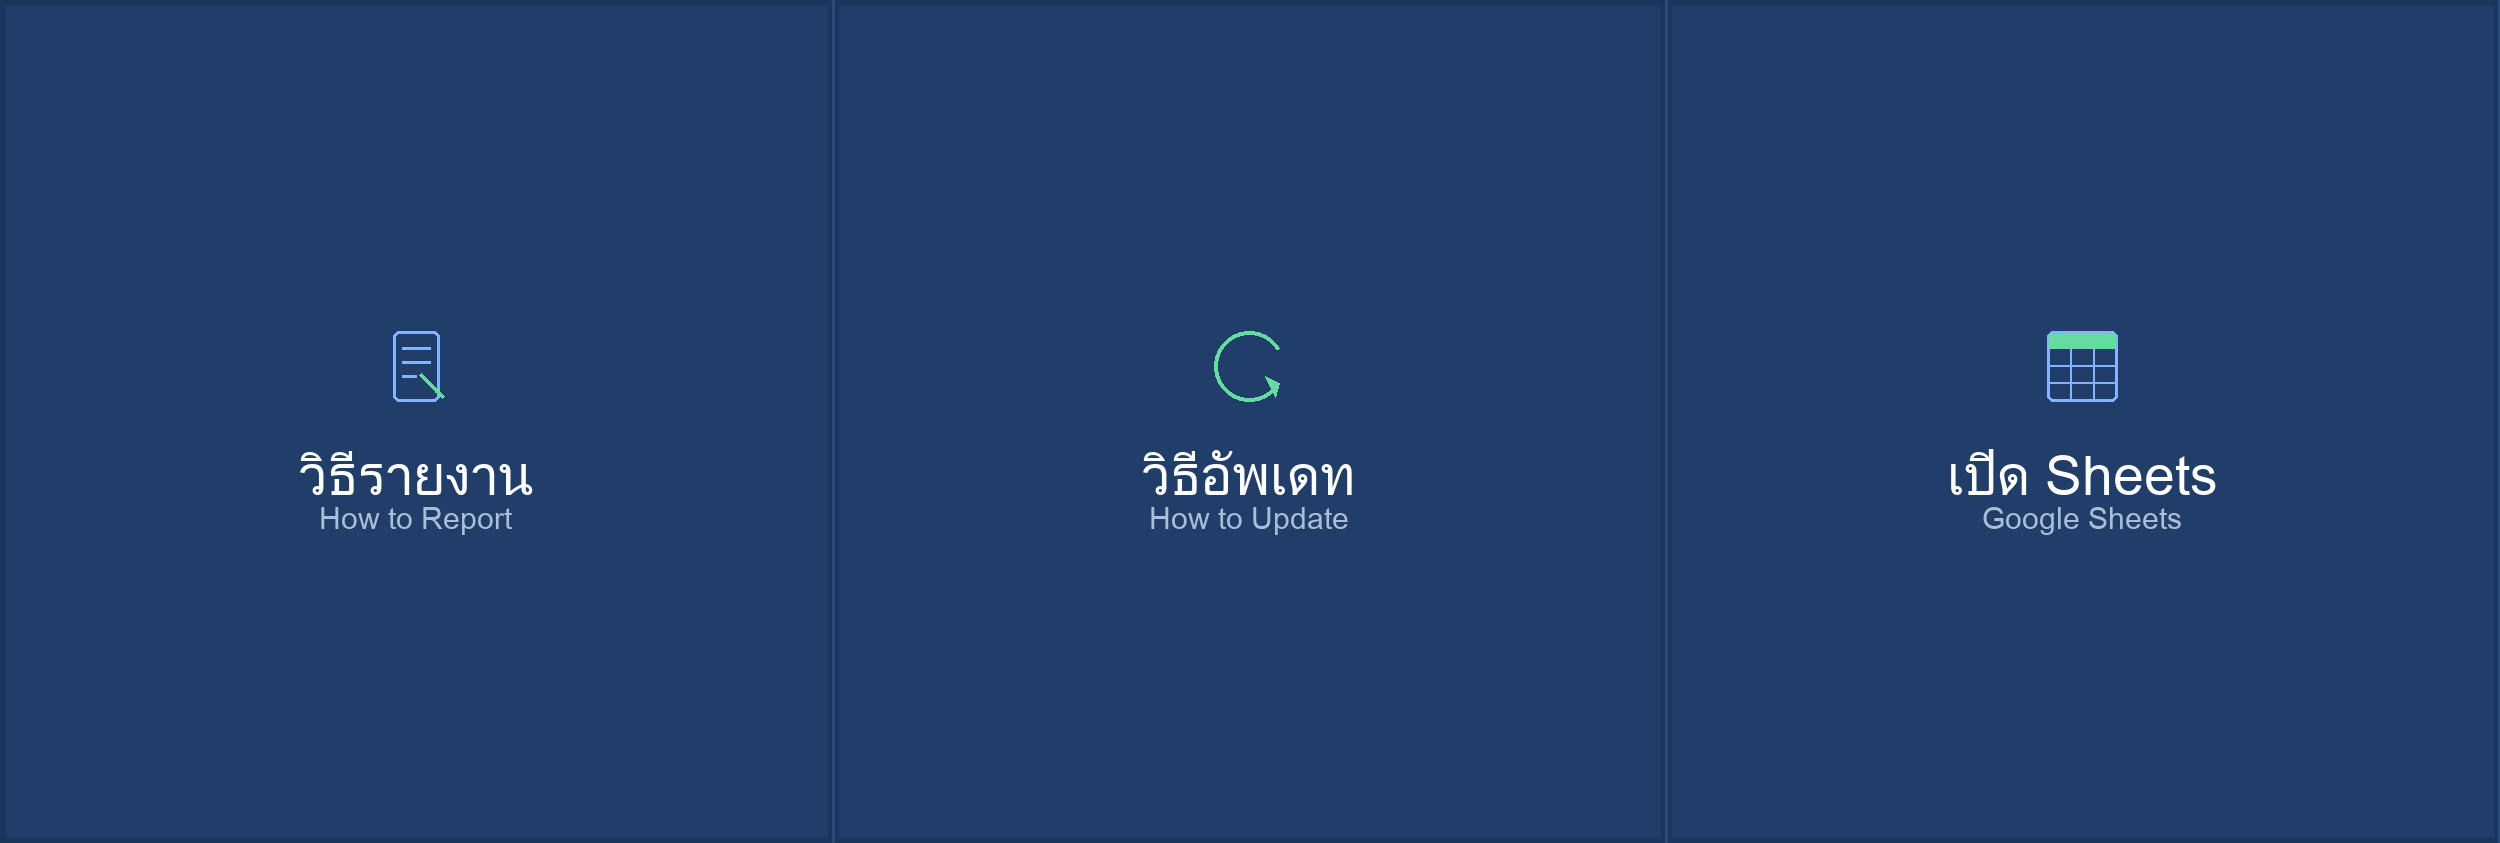
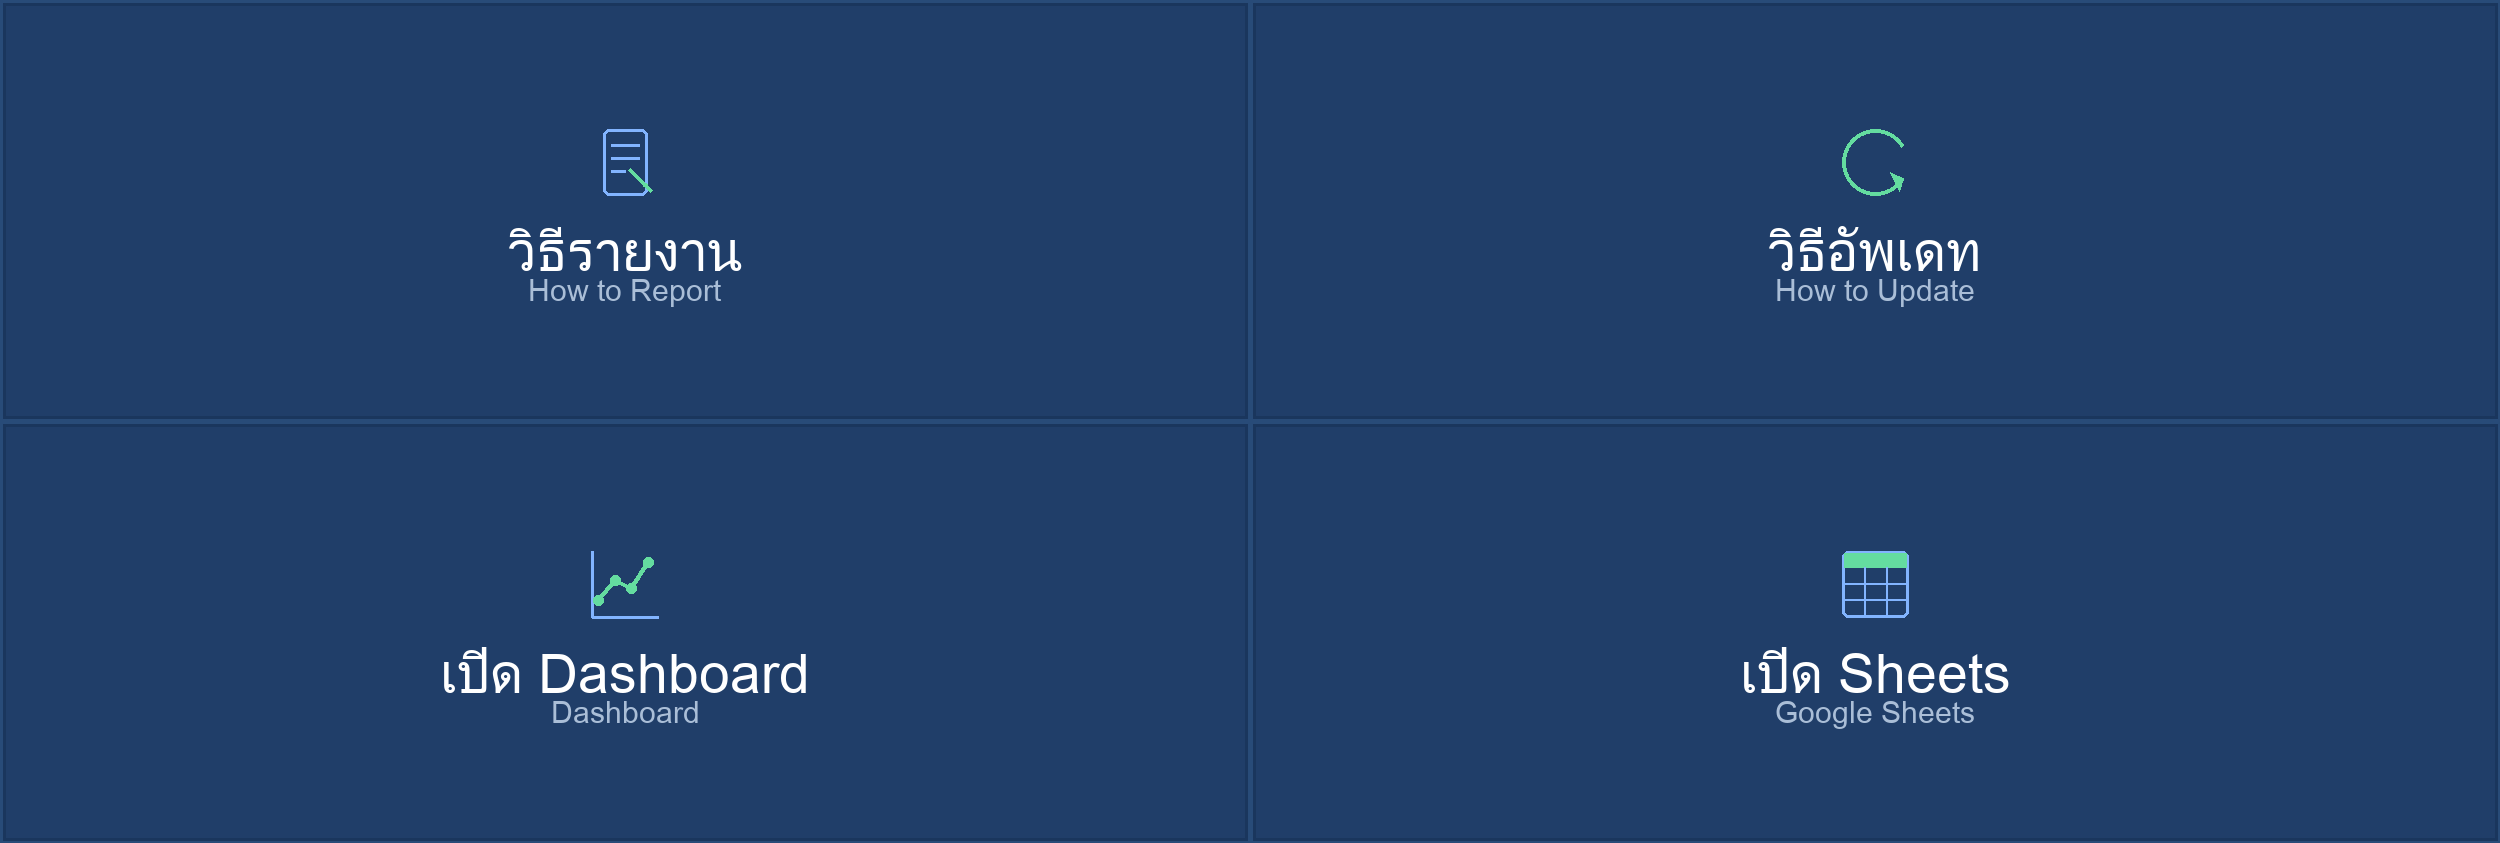
feat: align cron and rich menu production setup

diff --git a/demo/setup_rich_menu.py b/demo/setup_rich_menu.py
@@ -7,7 +7,8 @@ Run once after deployment:
 Requires:
   - LINE_CHANNEL_ACCESS_TOKEN in .env or environment
   - rich_menu.png in same directory
-  - Google Sheets URL
+  - Dashboard URL
+  - Google Sheets URL or GOOGLE_SHEETS_ID
 """
 
 import os
@@ -18,24 +19,52 @@ import urllib.request
 # Config
 # ---------------------------------------------------------------------------
 
-TOKEN = os.environ.get("LINE_CHANNEL_ACCESS_TOKEN", "")
 
-# URLs — update these with your actual URLs
-SHEETS_URL = os.environ.get("SHEETS_URL", "https://docs.google.com/spreadsheets/d/1N8urzMgcVBjJ3iv5ACPtMP-pG70rtlaHQ6v3iTJ48wY/edit")
+def load_env_file():
+    """Load a dotenv-style file into os.environ without overwriting existing vars."""
+    env_path = os.environ.get("ENV_FILE")
+    if not env_path:
+        env_path = os.path.join(os.path.dirname(__file__), ".env")
+
+    if not os.path.exists(env_path):
+        return
+
+    with open(env_path) as f:
+        for line in f:
+            line = line.strip()
+            if not line or line.startswith("#") or "=" not in line:
+                continue
+            key, value = line.split("=", 1)
+            key = key.strip()
+            value = value.strip().strip('"').strip("'")
+            os.environ.setdefault(key, value)
+
+
+load_env_file()
+
+TOKEN = os.environ.get("LINE_CHANNEL_ACCESS_TOKEN", "")
+DASHBOARD_URL = os.environ.get(
+    "DASHBOARD_URL",
+    "https://lookerstudio.google.com/reporting/9a4b326f-4f51-4f85-be2f-2bf8e958a9ec",
+)
+GOOGLE_SHEETS_ID = os.environ.get("GOOGLE_SHEETS_ID", "")
+SHEETS_URL = os.environ.get("SHEETS_URL", "")
 
 if not TOKEN:
-    # Try loading from .env file
-    env_path = os.path.join(os.path.dirname(__file__), ".env")
-    if os.path.exists(env_path):
-        with open(env_path) as f:
-            for line in f:
-                line = line.strip()
-                if line.startswith("LINE_CHANNEL_ACCESS_TOKEN="):
-                    TOKEN = line.split("=", 1)[1].strip().strip('"').strip("'")
-    if not TOKEN:
-        print("ERROR: LINE_CHANNEL_ACCESS_TOKEN not found.")
-        print("Set it as environment variable or in .env file.")
-        exit(1)
+    print("ERROR: LINE_CHANNEL_ACCESS_TOKEN not found.")
+    print("Set it as environment variable, ENV_FILE, or in .env file.")
+    exit(1)
+
+if not SHEETS_URL and GOOGLE_SHEETS_ID:
+    SHEETS_URL = f"https://docs.google.com/spreadsheets/d/{GOOGLE_SHEETS_ID}/edit"
+
+if not SHEETS_URL:
+    print("ERROR: SHEETS_URL or GOOGLE_SHEETS_ID is required.")
+    exit(1)
+
+if not DASHBOARD_URL:
+    print("ERROR: DASHBOARD_URL is required.")
+    exit(1)
 
 
 def api_call(method, path, data=None, content_type="application/json"):
@@ -92,10 +121,10 @@ def delete_existing_menus():
 
 
 def create_rich_menu():
-    """Create the rich menu with 3 buttons in a single row."""
+    """Create the rich menu with 4 buttons in a 2x2 layout."""
 
-    # 2500x843 image, 3 equal columns
-    cell_w = 2500 // 3     # 833
+    cell_w = 2500 // 2
+    cell_h = 843 // 2
 
     menu_data = {
         "size": {"width": 2500, "height": 843},
@@ -103,19 +132,20 @@ def create_rich_menu():
         "name": "ATE Sales Bot Menu",
         "chatBarText": "เมนู ATE Sales",
         "areas": [
-            # Left: วิธีรายงาน
             {
-                "bounds": {"x": 0, "y": 0, "width": cell_w, "height": 843},
+                "bounds": {"x": 0, "y": 0, "width": cell_w, "height": cell_h},
                 "action": {"type": "message", "text": "วิธีรายงาน"}
             },
-            # Center: วิธีอัพเดท
             {
-                "bounds": {"x": cell_w, "y": 0, "width": cell_w, "height": 843},
+                "bounds": {"x": cell_w, "y": 0, "width": cell_w, "height": cell_h},
                 "action": {"type": "message", "text": "วิธีอัพเดท"}
             },
-            # Right: เปิด Sheets → URL
             {
-                "bounds": {"x": cell_w * 2, "y": 0, "width": cell_w, "height": 843},
+                "bounds": {"x": 0, "y": cell_h, "width": cell_w, "height": 843 - cell_h},
+                "action": {"type": "uri", "uri": DASHBOARD_URL}
+            },
+            {
+                "bounds": {"x": cell_w, "y": cell_h, "width": cell_w, "height": 843 - cell_h},
                 "action": {"type": "uri", "uri": SHEETS_URL}
             },
         ]

diff --git a/demo/generate_rich_menu_image.py b/demo/generate_rich_menu_image.py
@@ -1,6 +1,5 @@
 """
-Generate LINE Rich Menu image (2500x843) for ATE Sales Report Bot.
-3 buttons in a single row.
+Generate a 4-button LINE Rich Menu image (2500x843) for ATE Sales Report Bot.
 
 Usage:
   python3 generate_rich_menu_image.py
@@ -21,15 +20,18 @@ TEXT_COLOR = (255, 255, 255)
 ICON_COLOR = (130, 180, 255)       # Light blue for icons
 ICON_ACCENT = (100, 220, 160)      # Green accent
 
-# Layout: single row, 3 equal cells
-NUM_COLS = 3
-CELL_W = WIDTH // NUM_COLS          # 833
+# Layout: main menu uses a 2x2 grid
+NUM_COLS = 2
+NUM_ROWS = 2
+CELL_W = WIDTH // NUM_COLS
+CELL_H = HEIGHT // NUM_ROWS
 
 # Button definitions
 BUTTONS = [
-    {"thai": "วิธีรายงาน",    "eng": "How to Report",   "col": 0},
-    {"thai": "วิธีอัพเดท",    "eng": "How to Update",   "col": 1},
-    {"thai": "เปิด Sheets",    "eng": "Google Sheets",  "col": 2},
+    {"thai": "วิธีรายงาน", "eng": "How to Report", "col": 0, "row": 0},
+    {"thai": "วิธีอัพเดท", "eng": "How to Update", "col": 1, "row": 0},
+    {"thai": "เปิด Dashboard", "eng": "Dashboard", "col": 0, "row": 1},
+    {"thai": "เปิด Sheets", "eng": "Google Sheets", "col": 1, "row": 1},
 ]
 
 # Find Thai font
@@ -171,48 +173,48 @@ def draw_grid_icon(draw, cx, cy, size=70):
         draw.line([(x0, ry), (x1, ry)], fill=ICON_COLOR, width=2)
 
 
-ICON_DRAWERS = [draw_document_icon, draw_refresh_icon, draw_grid_icon]
+ICON_DRAWERS = [draw_document_icon, draw_refresh_icon, draw_line_chart_icon, draw_grid_icon]
 
 
 # ---------------------------------------------------------------------------
 # Build image
 # ---------------------------------------------------------------------------
 
-img = Image.new("RGB", (WIDTH, HEIGHT), BG_COLOR)
-draw = ImageDraw.Draw(img)
+def draw_menu(buttons, drawers, output_name):
+    img = Image.new("RGB", (WIDTH, HEIGHT), BG_COLOR)
+    draw = ImageDraw.Draw(img)
 
-for idx, btn in enumerate(BUTTONS):
-    x0 = btn["col"] * CELL_W
-    y0 = 0
-    x1 = x0 + CELL_W
-    y1 = HEIGHT
+    for idx, btn in enumerate(buttons):
+        x0 = btn["col"] * CELL_W
+        y0 = btn["row"] * CELL_H
+        x1 = WIDTH if btn["col"] == NUM_COLS - 1 else x0 + CELL_W
+        y1 = HEIGHT if btn["row"] == NUM_ROWS - 1 else y0 + CELL_H
 
-    # Cell background
-    inner_margin = 6
-    draw.rectangle([x0 + inner_margin, y0 + inner_margin, x1 - inner_margin, y1 - inner_margin],
-                   fill=CELL_COLOR)
+        inner_margin = 6
+        draw.rectangle(
+            [x0 + inner_margin, y0 + inner_margin, x1 - inner_margin, y1 - inner_margin],
+            fill=CELL_COLOR,
+        )
+        draw.rectangle([x0, y0, x1, y1], outline=BORDER_COLOR, width=3)
 
-    # Border lines
-    draw.line([(x1, y0), (x1, y1)], fill=BORDER_COLOR, width=3)
+        cx = x0 + (x1 - x0) // 2
+        cy = y0 + (y1 - y0) // 2
 
-    cx = x0 + CELL_W // 2
-    cy = HEIGHT // 2
+        icon_cy = cy - 48
+        drawers[idx](draw, cx, icon_cy, size=66)
 
-    # Draw icon (centered above text)
-    icon_cy = cy - 55
-    ICON_DRAWERS[idx](draw, cx, icon_cy, size=70)
+        thai_bbox = draw.textbbox((0, 0), btn["thai"], font=font_main)
+        tw = thai_bbox[2] - thai_bbox[0]
+        draw.text((cx - tw // 2, cy + 2), btn["thai"], fill=TEXT_COLOR, font=font_main)
 
-    # Draw Thai label
-    thai_bbox = draw.textbbox((0, 0), btn["thai"], font=font_main)
-    tw = thai_bbox[2] - thai_bbox[0]
-    draw.text((cx - tw // 2, cy + 15), btn["thai"], fill=TEXT_COLOR, font=font_main)
+        eng_bbox = draw.textbbox((0, 0), btn["eng"], font=font_sub)
+        ew = eng_bbox[2] - eng_bbox[0]
+        draw.text((cx - ew // 2, cy + 58), btn["eng"], fill=(170, 190, 215), font=font_sub)
 
-    # Draw English subtitle
-    eng_bbox = draw.textbbox((0, 0), btn["eng"], font=font_sub)
-    ew = eng_bbox[2] - eng_bbox[0]
-    draw.text((cx - ew // 2, cy + 75), btn["eng"], fill=(170, 190, 215), font=font_sub)
+    output_path = os.path.join(os.path.dirname(__file__), output_name)
+    img.save(output_path, "PNG")
+    print(f"Rich menu image saved: {output_path}")
+    print(f"Size: {WIDTH}x{HEIGHT}")
 
-output_path = os.path.join(os.path.dirname(__file__), "rich_menu.png")
-img.save(output_path, "PNG")
-print(f"Rich menu image saved: {output_path}")
-print(f"Size: {WIDTH}x{HEIGHT}")
+
+draw_menu(BUTTONS, ICON_DRAWERS, "rich_menu.png")

diff --git a/ARCHITECTURE.md b/ARCHITECTURE.md
@@ -30,7 +30,7 @@ LINE Message → Vercel Serverless → Gemini AI Parse → Google Sheets → LIN
 | Database | Google Sheets (via gspread) | Multi-tab data storage |
 | Dashboard | Looker Studio | KPIs, pipeline chart, segment mix |
 | Cron | GitHub Actions | Weekly stale deal notifications |
-| Rich Menu | LINE Rich Menu API | 5-button navigation |
+| Rich Menu | LINE Rich Menu API | 4-button navigation |
 
 **Dependencies** (`requirements.txt`):
 - `gspread==6.1.4` — Google Sheets client
@@ -252,16 +252,18 @@ Keywords checked in order (case-insensitive):
 4. **Update command:** regex `^(อัพเดท|อัพเดต|update|แก้ไข)\s+(MSG-[A-Za-z0-9]+)\s*(.*)`
 5. **Sales report:** everything else → AI parsing pipeline
 
-### 9.3 Rich Menu (3 buttons)
+### 9.3 Rich Menu (4 buttons)
 
-Single-row layout on 2500x843 canvas:
+2x2 layout on 2500x843 canvas:
 ```
-┌──────────┬──────────┬──────────┐
-│ วิธีรายงาน │ วิธีอัพเดท │ เปิด Sheets │  (3 × 833px)
-└──────────┴──────────┴──────────┘
+┌─────────────────┬─────────────────┐
+│ วิธีรายงาน       │ วิธีอัพเดท       │
+├─────────────────┼─────────────────┤
+│ เปิด Dashboard │ เปิด Sheets     │
+└─────────────────┴─────────────────┘
 ```
-- Left 2: message actions (send keyword text)
-- Right: URI action (open Google Sheets)
+- Top row: message actions (send keyword text)
+- Bottom row: URI actions (open Looker Studio and Google Sheets)
 
 ### 9.4 Push Notifications
 
@@ -303,7 +305,6 @@ Used for stale deal alerts only. Requires LINE user_id from Rep Registry tab. Fr
 
 **GitHub Actions Secrets** (for stale-check workflow):
 - `CRON_SECRET` — must match Vercel env var
-- `STALE_CHECK_URL` — full URL: `https://ate-sales-demo.vercel.app/api/stale-check`
 
 ---
 

diff --git a/README.md b/README.md
@@ -95,7 +95,7 @@ The data is simultaneously written to 4 Google Sheets tabs and the dashboard upd
 | 📊 | **Update System** | Modify existing deals via `อัพเดท MSG-XXXXX` — AI parses only changes |
 | 💬 | **Hard Validation** | Reports without phone/email are rejected before saving |
 | 💬 | **3-Tier Nudge** | Polite Thai hints for missing fields (0=none, 1-2=hint, 3+=hint+example) |
-| 💬 | **Rich Menu** | 3-button LINE interface (How to Report, How to Update, Open Sheets) |
+| 💬 | **Rich Menu** | 4-button LINE interface (How to Report, How to Update, Open Dashboard, Open Sheets) |
 | ⚙ | **Stale Deal Cron** | GitHub Actions weekly push — reps notified of 7+ day old deals |
 | ⚙ | **Zero SDK Design** | Only 2 pip dependencies (gspread, google-auth); all APIs via urllib |
 
@@ -121,9 +121,10 @@ The data is simultaneously written to 4 Google Sheets tabs and the dashboard upd
 
 ![LINE Rich Menu](demo/rich_menu.png)
 
-3-button persistent menu in LINE with bilingual Thai/English labels:
+4-button persistent menu in LINE with bilingual Thai/English labels:
 - **วิธีรายงาน** (How to Report) — shows reporting guide with examples
 - **วิธีอัพเดท** (How to Update) — shows update command syntax
+- **เปิด Dashboard** (Dashboard) — opens the Looker Studio report
 - **เปิด Sheets** (Google Sheets) — opens the spreadsheet directly
 
 ---

diff --git a/docs/10_Cron_Setup_Guide.md b/docs/10_Cron_Setup_Guide.md
@@ -42,7 +42,7 @@ jobs:
         run: |
           curl -s -f -X GET \
             -H "X-Cron-Secret: ${{ secrets.CRON_SECRET }}" \
-            "${{ secrets.STALE_CHECK_URL }}" \
+            "https://ate-sales-demo.vercel.app/api/stale-check" \
             | jq .
 ```
 
@@ -53,7 +53,6 @@ Go to your repo → Settings → Secrets and variables → Actions → New repos
 | Secret | Value |
 |--------|-------|
 | `CRON_SECRET` | Same value as your Vercel `CRON_SECRET` env var |
-| `STALE_CHECK_URL` | `https://your-app.vercel.app/api/stale-check` |
 
 ### Step 3: Add CRON_SECRET to Vercel
 
@@ -115,7 +114,7 @@ crontab -e
 **Headers:**
 | Header | Required | Description |
 |--------|----------|-------------|
-| `X-Cron-Secret` | Yes (if CRON_SECRET env var is set) | Must match the `CRON_SECRET` environment variable |
+| `X-Cron-Secret` | Yes | Must match the `CRON_SECRET` environment variable |
 
 **Success Response (200):**
 ```json
@@ -141,6 +140,13 @@ crontab -e
 ```json
 {
   "error": "unauthorized"
+}
+```
+
+**Misconfigured (500):**
+```json
+{
+  "error": "missing CRON_SECRET"
 }
 ```
 
